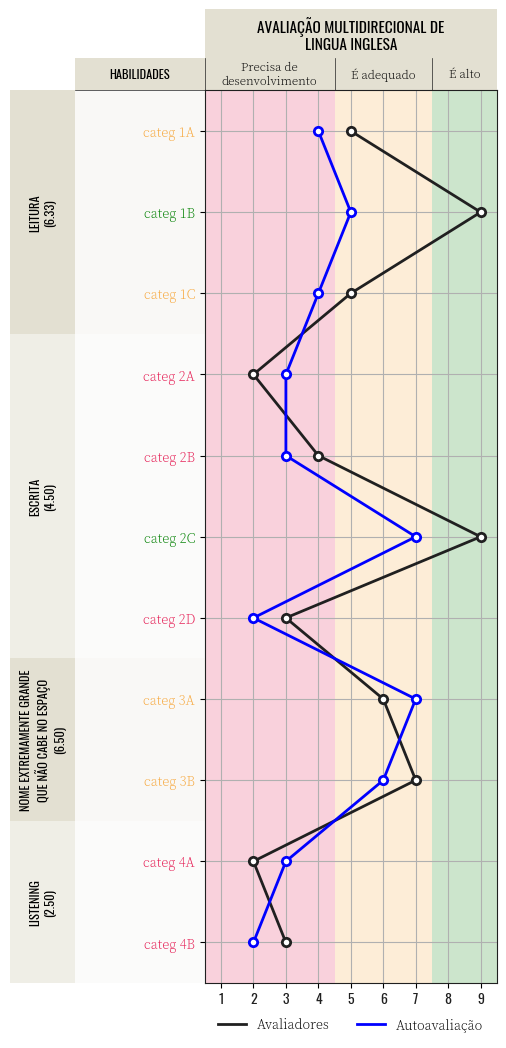
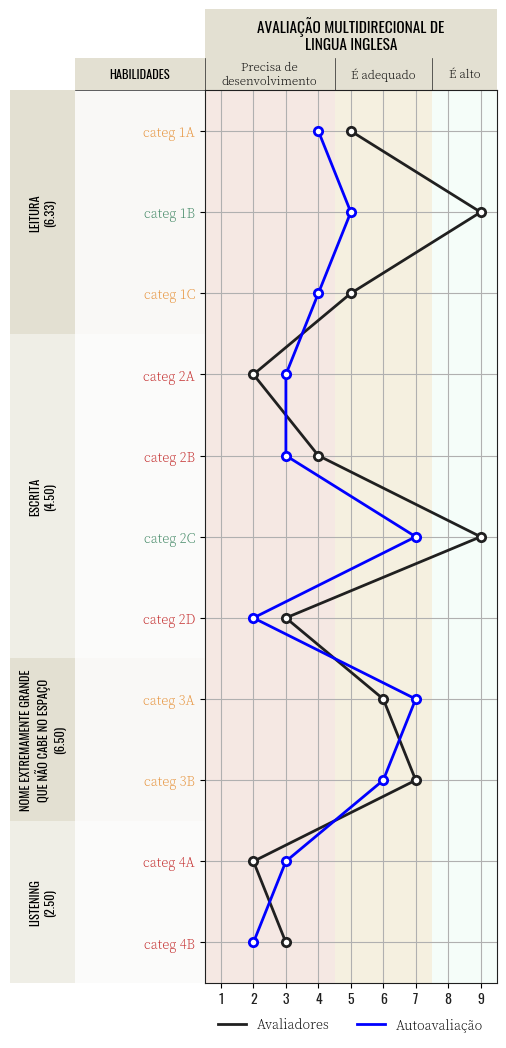
🔖 v0.1.5

Changed region(s): [[0.83, 0.0611, 1.0, 0.9466], [0.3557, 0.4885, 0.3854, 0.5191], [0.3557, 0.1832, 0.3854, 0.2137]]

diff --git a/multidirectional_graph/_graph.py b/multidirectional_graph/_graph.py
@@ -26,15 +26,18 @@ class MultidirectionalGraph:
         black_color: str = "#202020",
         odd_group_color: str = "#e3e0d2",
         even_group_color: str = "#efeee6",
-        bad_color: str = "#e51951",
+        bad_color: str = "#f5e8e3",
         bad_range: Tuple[int] = (1, 4),
         bad_string: str = "Precisa de\ndesenvolvimento",
-        neutral_color: str = "#f7a73b",
+        bad_font_color: str = "#c22626",
+        neutral_color: str = "#f5f0e0",
         neutral_range: Tuple[int] = (5, 7),
         neutral_string: str = "É adequado",
-        good_color: str = "#0393e2",
+        neutral_font_color: str = "#e69138",
+        good_color: str = "#f5fdf9",
         good_range: Tuple[int] = (8, 9),
         good_string: str = "É alto",
+        good_font_color: str = "#3d8561",
         header_color: str = "#e3e0d2",
         header_height: float = 0.6,
         subheader_color: str = "#efeee6",
@@ -46,7 +49,7 @@ class MultidirectionalGraph:
         category_width: float = 4.0,
         group_width: float = 2.0,
         title_fontsize: int = 11,
-        background_alpha: float = 0.2,
+        background_alpha: float = 1,
         title_font_path: str = TITLE_FONT_PATH,
         base_font_path: str = BASE_FONT_PATH,
         plot_base_options = dict(zorder=2),
@@ -181,6 +184,9 @@ class MultidirectionalGraph:
         self.scatter_base_options = scatter_base_options
         self.plot_base_options = plot_base_options
         self.legend_displacement = legend_displacement
+        self.bad_font_color = bad_font_color
+        self.neutral_font_color = neutral_font_color
+        self.good_font_color = good_font_color
 
     def set_param(self, field, value):
         if not hasattr(self, field):
@@ -274,11 +280,11 @@ class MultidirectionalGraph:
             label.set_font_properties(self.base_font)                
 
             if 1 <= y_value < 4.5:
-                label.set_color(colors[1])
+                label.set_color(self.bad_font_color )
             elif 4.5 <= y_value < 7.5:
-                label.set_color(colors[5])
+                label.set_color(self.neutral_font_color)
             elif 7.5 <= y_value <= 9:
-                label.set_color(colors[8])
+                label.set_color(self.good_font_color)
             
             # To-Do: not working
             # for k in self.background_bins:

diff --git a/setup.py b/setup.py
@@ -7,7 +7,7 @@ with open("README.md", "r") as fh:
 
 setup(
     name="multidirectional_graph",
-    version="0.1.4",
+    version="0.1.5",
     description="Package for plotting multidirectional graphs",
     author="Eduardo Messias de Morais",
     author_email="emdemor415@gmail.com",
